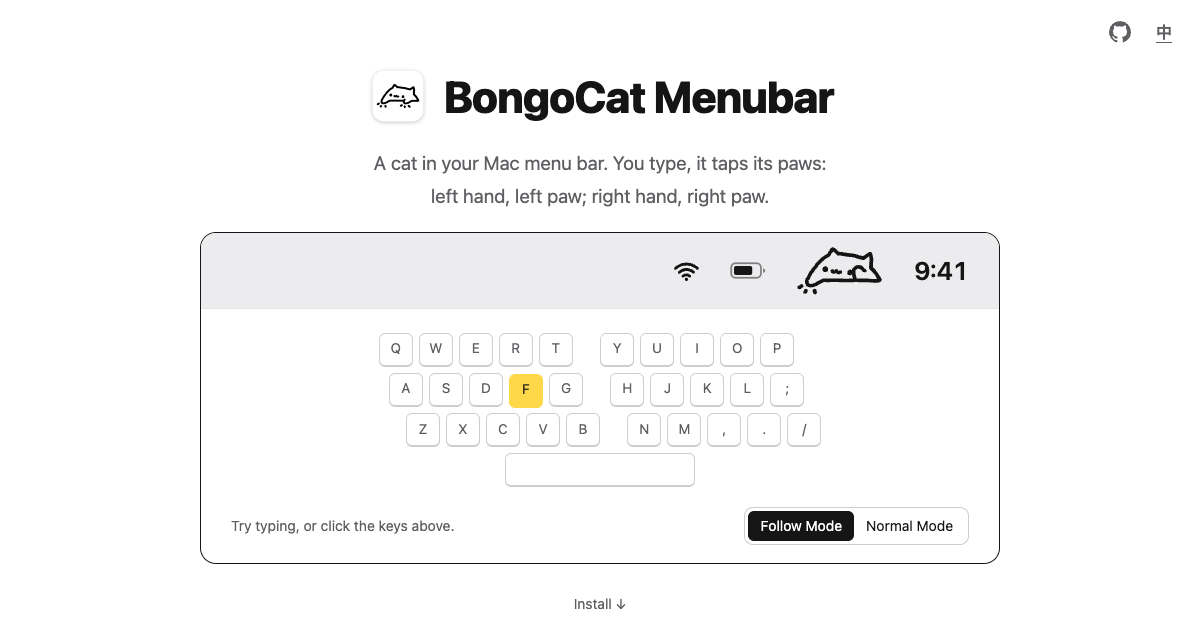
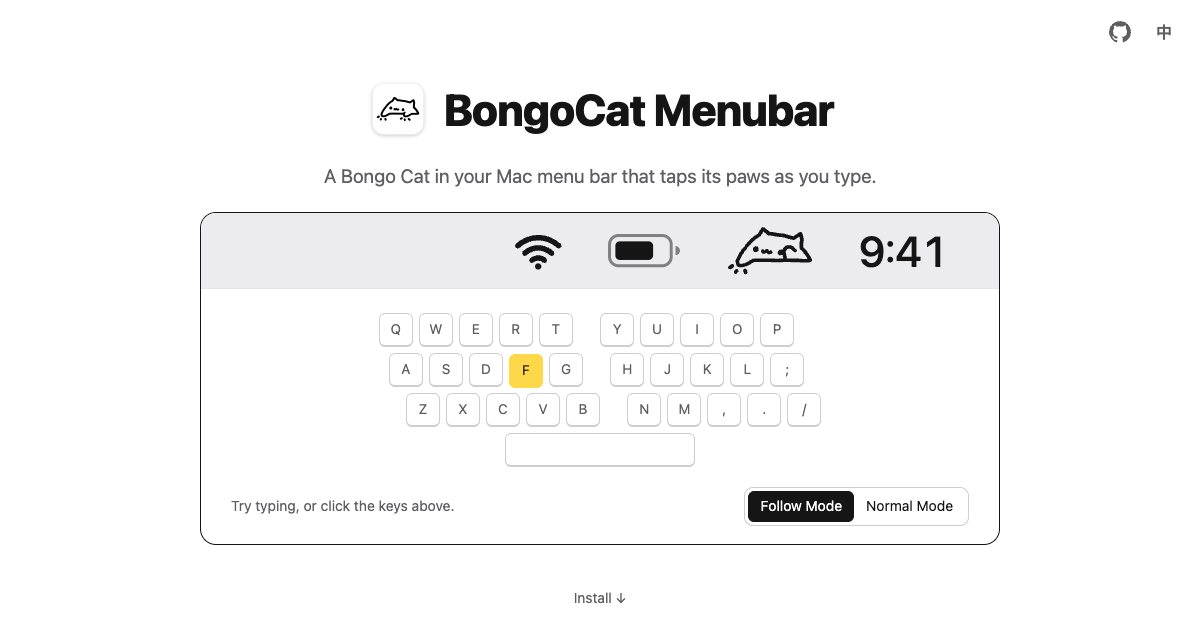
docs: 菜单栏演示按真实比例重画 WiFi、电池和时钟并重录 GIF；README 安装方式和常见问题改用标题；一句话介绍改写

diff --git a/site/en/index.html b/site/en/index.html
@@ -4,7 +4,7 @@
   <meta charset="utf-8">
   <meta name="viewport" content="width=device-width, initial-scale=1">
   <title>BongoCat Menubar: you type, it taps along</title>
-  <meta name="description" content="A cat in your Mac menu bar that taps its paws as you type: left hand, left paw; right hand, right paw. Free and open source, macOS 13 or later.">
+  <meta name="description" content="A Bongo Cat in your Mac menu bar that taps its paws as you type. Free and open source, macOS 13 or later.">
   <link rel="canonical" href="https://zhiyozhao.github.io/bongocat-menubar/en/">
   <link rel="alternate" hreflang="zh-CN" href="https://zhiyozhao.github.io/bongocat-menubar/">
   <link rel="alternate" hreflang="en" href="https://zhiyozhao.github.io/bongocat-menubar/en/">
@@ -13,7 +13,7 @@
   <meta name="theme-color" content="#18181a" media="(prefers-color-scheme: dark)">
   <meta property="og:type" content="website">
   <meta property="og:title" content="BongoCat Menubar: you type, it taps along">
-  <meta property="og:description" content="A cat in your Mac menu bar that taps its paws as you type: left hand, left paw; right hand, right paw. Free and open source, macOS 13 or later.">
+  <meta property="og:description" content="A Bongo Cat in your Mac menu bar that taps its paws as you type. Free and open source, macOS 13 or later.">
   <meta property="og:url" content="https://zhiyozhao.github.io/bongocat-menubar/en/">
   <meta property="og:image" content="https://zhiyozhao.github.io/bongocat-menubar/assets/og-en.png">
   <meta property="og:locale" content="en_US">
@@ -33,11 +33,11 @@
   <main>
     <section class="hero">
       <div class="title"><img src="../assets/icon-128.png" alt="" width="64" height="64"><h1>BongoCat Menubar</h1></div>
-      <p class="lede">A cat in your Mac menu bar. You type, it taps its paws:<br>left hand, left paw; right hand, right paw.</p>
+      <p class="lede">A Bongo Cat in your Mac menu bar that taps its paws as you type.</p>
       <figure class="demo" aria-label="Demo: the top right of the menu bar, magnified. Type or tap the keys below and the cat taps along">
         <div class="demo-bar">
           <svg class="sym wifi" viewBox="0 0 24 18" aria-hidden="true"><g fill="none" stroke="currentColor" stroke-width="2.6" stroke-linecap="round"><path d="M2.2 6.6a14.2 14.2 0 0 1 19.6 0"/><path d="M5.6 10.1a9.3 9.3 0 0 1 12.8 0"/><path d="M9 13.5a4.5 4.5 0 0 1 6 0"/></g><circle cx="12" cy="16.4" r="1.5" fill="currentColor"/></svg>
-          <svg class="sym batt" viewBox="0 0 30 14" aria-hidden="true"><rect x="1" y="1" width="24.5" height="12" rx="3.6" fill="none" stroke="currentColor" stroke-width="1.5" opacity=".5"/><rect x="3.3" y="3.3" width="15" height="7.4" rx="1.8" fill="currentColor"/><path d="M27.2 5.2v3.6a1.8 1.8 0 0 0 0-3.6Z" fill="currentColor" opacity=".5"/></svg>
+          <svg class="sym batt" viewBox="0 0 30 14" aria-hidden="true"><rect x="1" y="1" width="24.5" height="12" rx="3.6" fill="none" stroke="currentColor" stroke-width="1.2" opacity=".5"/><rect x="3.3" y="3.3" width="15" height="7.4" rx="1.8" fill="currentColor"/><path d="M27.2 5.2v3.6a1.8 1.8 0 0 0 0-3.6Z" fill="currentColor" opacity=".5"/></svg>
           <span class="cat" data-frame="idle" aria-hidden="true"><i class="idle"></i><i class="a"></i><i class="b"></i><i class="both"></i></span>
           <span class="clock" aria-hidden="true">12:14</span>
         </div>
@@ -66,12 +66,12 @@
         <ol class="steps">
           <li>
             <h3>Install the app (either way)</h3>
-            <dl class="ways">
-              <dt>With Homebrew</dt>
-              <dd><div class="install"><code>brew install --cask zhiyozhao/tap/bongocat-menubar</code><button class="copy" type="button" data-copy="brew install --cask zhiyozhao/tap/bongocat-menubar" data-done="Copied" aria-label="Copy install command">Copy</button></div></dd>
-              <dt>Manually</dt>
-              <dd>Download the <a href="https://github.com/zhiyozhao/bongocat-menubar/releases/latest">DMG</a> and drag the app into Applications. If the first launch says the developer cannot be verified, go to System Settings → Privacy &amp; Security and click “Open Anyway” at the bottom.</dd>
-            </dl>
+            <div class="ways">
+              <h4>With Homebrew</h4>
+              <div class="install"><code>brew install --cask zhiyozhao/tap/bongocat-menubar</code><button class="copy" type="button" data-copy="brew install --cask zhiyozhao/tap/bongocat-menubar" data-done="Copied" aria-label="Copy install command">Copy</button></div>
+              <h4>Manually</h4>
+              <p>Download the <a href="https://github.com/zhiyozhao/bongocat-menubar/releases/latest">DMG</a> and drag the app into Applications. If the first launch says the developer cannot be verified, go to System Settings → Privacy &amp; Security and click “Open Anyway” at the bottom.</p>
+            </div>
           </li>
           <li>
             <h3>Grant Accessibility permission</h3>

diff --git a/site/index.html b/site/index.html
@@ -4,7 +4,7 @@
   <meta charset="utf-8">
   <meta name="viewport" content="width=device-width, initial-scale=1">
   <title>BongoCat Menubar：你打字，它拍爪子</title>
-  <meta name="description" content="Mac 菜单栏里的一只猫，你打字，它拍爪子：左手拍左爪，右手拍右爪。免费开源，支持 macOS 13 及以上。">
+  <meta name="description" content="住在 Mac 菜单栏里的 Bongo Cat，你一打字，它就跟着拍爪子。免费开源，支持 macOS 13 及以上。">
   <link rel="canonical" href="https://zhiyozhao.github.io/bongocat-menubar/">
   <link rel="alternate" hreflang="zh-CN" href="https://zhiyozhao.github.io/bongocat-menubar/">
   <link rel="alternate" hreflang="en" href="https://zhiyozhao.github.io/bongocat-menubar/en/">
@@ -13,7 +13,7 @@
   <meta name="theme-color" content="#18181a" media="(prefers-color-scheme: dark)">
   <meta property="og:type" content="website">
   <meta property="og:title" content="BongoCat Menubar：你打字，它拍爪子">
-  <meta property="og:description" content="Mac 菜单栏里的一只猫，你打字，它拍爪子：左手拍左爪，右手拍右爪。免费开源，支持 macOS 13 及以上。">
+  <meta property="og:description" content="住在 Mac 菜单栏里的 Bongo Cat，你一打字，它就跟着拍爪子。免费开源，支持 macOS 13 及以上。">
   <meta property="og:url" content="https://zhiyozhao.github.io/bongocat-menubar/">
   <meta property="og:image" content="https://zhiyozhao.github.io/bongocat-menubar/assets/og-zh.png">
   <meta property="og:locale" content="zh_CN">
@@ -33,11 +33,11 @@
   <main>
     <section class="hero">
       <div class="title"><img src="assets/icon-128.png" alt="" width="64" height="64"><h1>BongoCat Menubar</h1></div>
-      <p class="lede">Mac 菜单栏里的一只猫。你打字，它拍爪子：<br>左手拍左爪，右手拍右爪。</p>
+      <p class="lede">住在 Mac 菜单栏里的 Bongo Cat，你一打字，它就跟着拍爪子。</p>
       <figure class="demo" aria-label="演示：放大后的菜单栏右上角。敲键盘或点下面的键，小猫跟着拍爪子">
         <div class="demo-bar">
           <svg class="sym wifi" viewBox="0 0 24 18" aria-hidden="true"><g fill="none" stroke="currentColor" stroke-width="2.6" stroke-linecap="round"><path d="M2.2 6.6a14.2 14.2 0 0 1 19.6 0"/><path d="M5.6 10.1a9.3 9.3 0 0 1 12.8 0"/><path d="M9 13.5a4.5 4.5 0 0 1 6 0"/></g><circle cx="12" cy="16.4" r="1.5" fill="currentColor"/></svg>
-          <svg class="sym batt" viewBox="0 0 30 14" aria-hidden="true"><rect x="1" y="1" width="24.5" height="12" rx="3.6" fill="none" stroke="currentColor" stroke-width="1.5" opacity=".5"/><rect x="3.3" y="3.3" width="15" height="7.4" rx="1.8" fill="currentColor"/><path d="M27.2 5.2v3.6a1.8 1.8 0 0 0 0-3.6Z" fill="currentColor" opacity=".5"/></svg>
+          <svg class="sym batt" viewBox="0 0 30 14" aria-hidden="true"><rect x="1" y="1" width="24.5" height="12" rx="3.6" fill="none" stroke="currentColor" stroke-width="1.2" opacity=".5"/><rect x="3.3" y="3.3" width="15" height="7.4" rx="1.8" fill="currentColor"/><path d="M27.2 5.2v3.6a1.8 1.8 0 0 0 0-3.6Z" fill="currentColor" opacity=".5"/></svg>
           <span class="cat" data-frame="idle" aria-hidden="true"><i class="idle"></i><i class="a"></i><i class="b"></i><i class="both"></i></span>
           <span class="clock" aria-hidden="true">12:14</span>
         </div>
@@ -66,12 +66,12 @@
         <ol class="steps">
           <li>
             <h3>安装 app（二选一）</h3>
-            <dl class="ways">
-              <dt>用 Homebrew</dt>
-              <dd><div class="install"><code>brew install --cask zhiyozhao/tap/bongocat-menubar</code><button class="copy" type="button" data-copy="brew install --cask zhiyozhao/tap/bongocat-menubar" data-done="已复制" aria-label="复制安装命令">复制</button></div></dd>
-              <dt>手动安装</dt>
-              <dd>下载 <a href="https://github.com/zhiyozhao/bongocat-menubar/releases/latest">DMG</a>，把 app 拖进“应用程序”。第一次打开如果提示“无法验证开发者”，到“系统设置 → 隐私与安全性”，在页面底部点“仍要打开”。</dd>
-            </dl>
+            <div class="ways">
+              <h4>用 Homebrew</h4>
+              <div class="install"><code>brew install --cask zhiyozhao/tap/bongocat-menubar</code><button class="copy" type="button" data-copy="brew install --cask zhiyozhao/tap/bongocat-menubar" data-done="已复制" aria-label="复制安装命令">复制</button></div>
+              <h4>手动安装</h4>
+              <p>下载 <a href="https://github.com/zhiyozhao/bongocat-menubar/releases/latest">DMG</a>，把 app 拖进“应用程序”。第一次打开如果提示“无法验证开发者”，到“系统设置 → 隐私与安全性”，在页面底部点“仍要打开”。</p>
+            </div>
           </li>
           <li>
             <h3>授权辅助功能</h3>

diff --git a/site/style.css b/site/style.css
@@ -66,12 +66,17 @@ h1 { margin: 0; font-size: clamp(28px, 4.2vw, 44px); line-height: 1.15; letter-s
 .more:hover { color: var(--ink); text-decoration: none; }
 
 .demo { width: min(100%, 800px); margin: 0; padding: 0 0 18px; border: 1.5px solid var(--ink); border-radius: 16px; overflow: hidden; background: var(--paper); }
-.demo-bar { display: flex; align-items: center; justify-content: flex-end; gap: clamp(18px, 4vw, 30px); height: clamp(64px, min(10vw, 12vh), 104px); padding: 0 clamp(20px, 4vw, 30px); background: var(--bar); border-bottom: 1px solid var(--rule); }
-.demo-bar .cat { height: clamp(40px, min(6.5vw, 8vh), 68px); }
+/* Menu bar, magnified. Everything is sized in --u (one menu bar point) with the
+   real macOS proportions: bar 24pt, app icon 16pt tall, Wi-Fi about 16 x 12pt,
+   battery about 24 x 11pt, clock in 13.5pt text, about 14pt between items. */
+.demo-bar { --u: clamp(1.8px, min(.4vw, .5vh, (100vw - 40px) / 176), 4.25px);
+  display: flex; align-items: center; justify-content: flex-end; gap: calc(14 * var(--u)); height: calc(24 * var(--u));
+  padding: 0 calc(16 * var(--u)); background: var(--bar); border-bottom: 1px solid var(--rule); }
+.demo-bar .cat { height: calc(16 * var(--u)); }
 .demo-bar .sym { flex: none; color: var(--ink); }
-.demo-bar .wifi { height: clamp(16px, min(2.6vw, 3.2vh), 27px); width: auto; }
-.demo-bar .batt { height: clamp(14px, min(2.2vw, 2.7vh), 23px); width: auto; }
-.demo-bar .clock { font-size: clamp(22px, min(3.4vw, 4vh), 36px); font-weight: 600; font-variant-numeric: tabular-nums; }
+.demo-bar .wifi { height: calc(12 * var(--u)); width: auto; }
+.demo-bar .batt { width: calc(24 * var(--u)); height: auto; }
+.demo-bar .clock { font-size: calc(13.5 * var(--u)); font-weight: 500; font-variant-numeric: tabular-nums; }
 .keyboard { --k: clamp(26px, min(3.6vw, 5.4vh), 46px); --g: clamp(4px, .6vw, 6px); display: grid; justify-content: center; gap: var(--g); margin: 24px auto 0; padding: 0 12px;
   user-select: none; -webkit-user-select: none; touch-action: manipulation; }
 .row { display: flex; gap: var(--g); }
@@ -107,10 +112,8 @@ h3 { margin: 0 0 10px; font-size: 18px; }
 .steps > li::before { content: counter(step); position: absolute; left: 0; top: -1px; display: grid; place-items: center; width: 32px; height: 32px;
   border-radius: 50%; background: var(--marker); color: var(--on-marker); font-weight: 800; }
 .steps p { margin: 0; color: var(--pencil); }
-.ways { margin: 0; display: grid; gap: 6px; }
-.ways dt { font-weight: 650; }
-.ways dd { margin: 0 0 14px; color: var(--pencil); }
-.ways dd:last-child { margin-bottom: 0; }
+.ways h4 { margin: 0 0 8px; font-size: 16px; }
+.ways .install { margin-bottom: 22px; }
 .ways a { color: var(--ink); }
 
 .install { display: flex; align-items: center; gap: 10px; padding: 6px 6px 6px 16px; border: 1.5px solid var(--ink); border-radius: 10px; color: var(--ink); }

diff --git a/README.en.md b/README.en.md
@@ -10,7 +10,7 @@
   <a href="https://zhiyozhao.github.io/bongocat-menubar/en/"><img alt="Website" src="https://img.shields.io/badge/website-zhiyozhao.github.io-black"></a>
 </p>
 
-<p align="center">A cat in your Mac menu bar. You type, it taps its paws: left hand, left paw; right hand, right paw.</p>
+<p align="center">A Bongo Cat in your Mac menu bar that taps its paws as you type.</p>
 
 <p align="center">
   <picture>
@@ -23,13 +23,14 @@
 
 ### Step 1: Install the app (either way)
 
-**With Homebrew**
+#### With Homebrew
 
 ```bash
 brew install --cask zhiyozhao/tap/bongocat-menubar
 ```
 
-**Manually**\
+#### Manually
+
 Download the DMG from [Releases](https://github.com/zhiyozhao/bongocat-menubar/releases/latest) and drag the app into Applications. If the first launch says the developer cannot be verified, go to System Settings → Privacy & Security and click "Open Anyway" at the bottom.
 
 ### Step 2: Grant Accessibility permission
@@ -38,19 +39,24 @@ Open the app, click "Open Settings" in the prompt, then "Open System Settings", 
 
 ## FAQ
 
-**The cat doesn't move.**\
+### The cat doesn't move.
+
 Open the cat's menu. If it shows an "Accessibility" item, permission isn't granted yet: click it and turn the switch on. If permission is granted, turn the switch off and on again in Settings. The cat stays still while you type a password; that's normal.
 
-**I can't find the cat in the menu bar.**\
+### I can't find the cat in the menu bar.
+
 When the menu bar is full, the notch hides the cat. Quit a few menu bar apps and it will show up.
 
-**Does it record what I type?**\
+### Does it record what I type?
+
 No. It has no network access and saves no keystrokes.
 
-**How do I upgrade?**\
+### How do I upgrade?
+
 `brew upgrade --cask bongocat-menubar`, then open the app again. No need to grant permission again.
 
-**How do I uninstall?**\
+### How do I uninstall?
+
 `brew uninstall --cask bongocat-menubar`, or drag the app to the Trash.
 
 ---

diff --git a/README.md b/README.md
@@ -10,7 +10,7 @@
   <a href="https://zhiyozhao.github.io/bongocat-menubar/"><img alt="官网" src="https://img.shields.io/badge/%E5%AE%98%E7%BD%91-zhiyozhao.github.io-black"></a>
 </p>
 
-<p align="center">Mac 菜单栏里的一只猫。你打字，它拍爪子：左手拍左爪，右手拍右爪。</p>
+<p align="center">住在 Mac 菜单栏里的 Bongo Cat，你一打字，它就跟着拍爪子。</p>
 
 <p align="center">
   <picture>
@@ -23,13 +23,14 @@
 
 ### 第 1 步：安装 app（二选一）
 
-**用 Homebrew**
+#### 用 Homebrew
 
 ```bash
 brew install --cask zhiyozhao/tap/bongocat-menubar
 ```
 
-**手动安装**\
+#### 手动安装
+
 到 [Releases](https://github.com/zhiyozhao/bongocat-menubar/releases/latest) 下载 DMG，把 app 拖进“应用程序”。第一次打开如果提示“无法验证开发者”，到“系统设置 → 隐私与安全性”，在页面底部点“仍要打开”。
 
 ### 第 2 步：授权辅助功能
@@ -38,19 +39,24 @@ brew install --cask zhiyozhao/tap/bongocat-menubar
 
 ## 常见问题
 
-**小猫不动？**\
+### 小猫不动？
+
 点开小猫的菜单：有“辅助功能”这一项，说明还没授权，点它去打开开关；已经授权了，就在设置里把开关关掉再打开。输入密码时小猫不动是正常的。
 
-**菜单栏里找不到小猫？**\
+### 菜单栏里找不到小猫？
+
 菜单栏图标太多时，小猫会被刘海挡住。退出几个菜单栏 app 就能看到。
 
-**会记录我打的字吗？**\
+### 会记录我打的字吗？
+
 不会。它不联网，也不保存任何按键。
 
-**怎么升级？**\
+### 怎么升级？
+
 `brew upgrade --cask bongocat-menubar`，装好后重新打开 app，不用重新授权。
 
-**怎么卸载？**\
+### 怎么卸载？
+
 `brew uninstall --cask bongocat-menubar`，或者把 app 拖到废纸篓。
 
 ---
